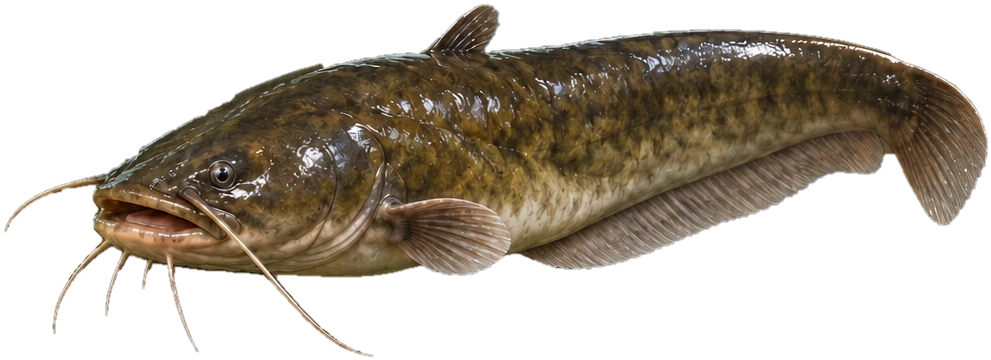
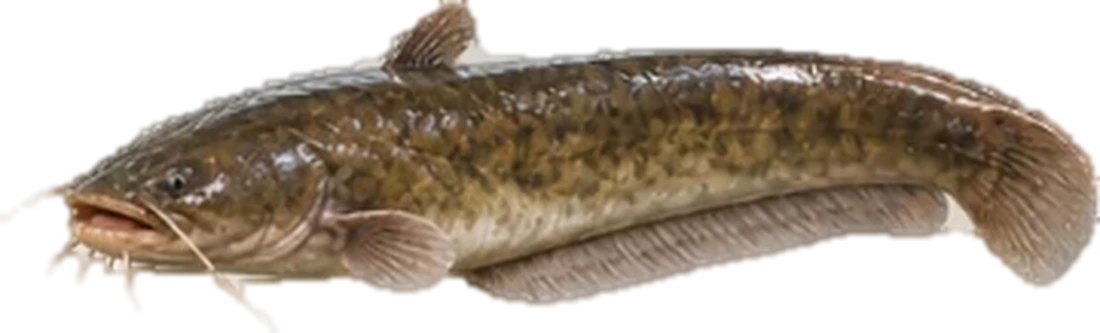
3D catch fish for 15 species from multi-angle photos: skeleton flop, scale bumps, wet gloss by part
- New side images for 강준치·황어·풀치·농어·양태·감성돔·대삼치·고등어·전갱이·메기·도다리·광어·대방어·부시리·알방어 (clean alpha)
- assets/fish/loft.json: body half-width per fish measured from the rear/top views (flatfish thin)
- Loft mesh follows the body run per column (curved hairtail), skinned to a 9-bone spine
- Flop: body C-curl first, tail whips a beat (0.16s) later with decaying strong flaps, fins spring recoil
- Scale micro-bumps: normal map from the photo's high-frequency detail; roughness map by part
  (belly/head glossy, back medium, fins/tail matte) also used for wet clearcoat; silver fish more metallic + iridescent

Claude-Session: https://claude.ai/code/session_01GWBXwWL4XUyvrXfQisFW1N

diff --git a/js/scene3d.js b/js/scene3d.js
@@ -218,6 +218,8 @@ export class World {
     this.buildAmbient();
     this.buildFishingGear();
     this.buildViewModel();
+    // 입체 물고기 두께 자료
+    fetch(new URL('../assets/fish/loft.json', import.meta.url)).then((r) => r.json()).then((d) => { this.loftData = d; }).catch(() => {});
     this.buildBoils();
     this.buildSpray();
     scene.add(this.camera);
@@ -2967,6 +2969,9 @@ export class World {
   }
   // ── 잡은 물고기를 1인칭으로 크게: 줄에 매달려 흔들리고 팔딱이며 물방울이 떨어진다 ──
   showTrophy(fish, url) {
+    // 여러 각도 사진으로 만든 입체 물고기가 있으면 그것으로
+    const key = String(url).split('/').pop().replace(/\.webp.*$/, '');
+    if (this.loftData && this.loftData[key]) return this.showTrophyLoft(fish, url, this.loftData[key], key);
     this.clearTrophy();
     const g = new THREE.Group();
     g.userData = { born: performance.now(), size: fish.size || 40, ready: false };
@@ -3019,33 +3024,62 @@ export class World {
     });
   }
 
-  // 옆모습 사진으로 입체 물고기를 만든다 (사진의 윤곽 → 단면 타원, 앞모습에서 잰 두께)
-  // 머리 x=0 → 꼬리 x=L, 등 +y, 옆면 +z. 꼬리 쪽으로 갈수록 크게 휘는 펄떡임은 셰이더에서.
-  makeLoftFish(img, L, { width = 0.128 } = {}) {
+  // 옆모습 사진으로 입체 물고기를 만든다
+  // - 사진 윤곽(세로 줄마다 몸의 위·아래) → 단면 타원, 두께 hw(길이 대비 반폭)
+  // - 머리 x=0 → 꼬리 x=L, 등 +y, 옆면 +z
+  // - 뼈대 NB개를 머리→꼬리로 이어 스키닝 (몸통·꼬리가 따로 꺾인다), 지느러미 가중치 finW
+  makeLoftFish(img, L, { hw = 0.08, flat = false } = {}, NB = 9) {
     const W = img.width, H = img.height;
     const cv = document.createElement('canvas');
     cv.width = W; cv.height = H;
     const cx = cv.getContext('2d', { willReadFrequently: true });
     cx.drawImage(img, 0, 0);
     const A = cx.getImageData(0, 0, W, H).data;
-    const N = 90, Mr = 32;
+    const N = 96, Mr = 32;
     const Lh = (L * H) / W;
-    // 앞모습 기준 두께: 주둥이에서 커지고 몸통 가운데 최대, 꼬리자루에서 가늘고 꼬리지느러미는 얇게
-    const prof = (u) => (u < 0.04 ? 0.25 + u * 8 : u < 0.28 ? 0.57 + (u - 0.04) * 1.8 : u < 0.52 ? 1 : u < 0.8 ? 1 - (u - 0.52) * 2.6 : Math.max(0.05, 0.27 - (u - 0.8) * 1.1));
-    const pos = [], uv = [], idx = [];
-    let last = { top: H / 2, bot: H / 2 };
+    const prof = flat
+      ? (u) => (u < 0.05 ? 0.4 + u * 10 : u < 0.8 ? 1 - Math.max(0, u - 0.6) * 1.5 : Math.max(0.25, 0.7 - (u - 0.8) * 2.2))
+      : (u) => (u < 0.04 ? 0.25 + u * 8 : u < 0.28 ? 0.57 + (u - 0.04) * 1.8 : u < 0.52 ? 1 : u < 0.8 ? 1 - (u - 0.52) * 2.6 : Math.max(0.05, 0.27 - (u - 0.8) * 1.1));
+    const ss = (e0, e1, x) => { const k = Math.min(1, Math.max(0, (x - e0) / (e1 - e0))); return k * k * (3 - 2 * k); };
+    const pos = [], uv = [], idx = [], fin = [], sI = [], sW = [];
+    const cols = []; // 세로 줄마다 몸 위·아래 (광택 지도용)
+    let prevC = null, last = { top: H / 2, bot: H / 2 };
     for (let i = 0; i <= N; i++) {
       const u = i / N, px = Math.min(W - 1, Math.round(u * (W - 1)));
-      let top = -1, bot = -1;
-      for (let y = 0; y < H; y++) if (A[(y * W + px) * 4 + 3] > 120) { if (top < 0) top = y; bot = y; }
-      if (top < 0) { top = last.top; bot = last.bot; } else last = { top, bot };
+      // 이 줄의 불투명 구간들 → 앞 줄 중심에 가장 가까운 구간 (휘어진 풀치 꼬리도 몸을 따라간다)
+      const runs = [];
+      let r0 = -1;
+      for (let y = 0; y <= H; y++) {
+        const on = y < H && A[(y * W + px) * 4 + 3] > 120;
+        if (on && r0 < 0) r0 = y;
+        if (!on && r0 >= 0) { runs.push([r0, y - 1]); r0 = -1; }
+      }
+      let pick = null;
+      if (runs.length) {
+        if (prevC == null) pick = runs.reduce((m, r) => (r[1] - r[0] > m[1] - m[0] ? r : m));
+        else {
+          // 가까운 구간들을 하나로 (지느러미 틈) 묶은 뒤 고른다
+          const merged = [];
+          for (const r of runs) { const m = merged[merged.length - 1]; if (m && r[0] - m[1] < H * 0.08) m[1] = r[1]; else merged.push([...r]); }
+          pick = merged.reduce((m, r) => (Math.abs((r[0] + r[1]) / 2 - prevC) < Math.abs((m[0] + m[1]) / 2 - prevC) ? r : m));
+        }
+      }
+      const top = pick ? pick[0] : last.top, bot = pick ? pick[1] : last.bot;
+      if (pick) last = { top, bot };
+      prevC = (top + bot) / 2;
+      cols.push([top, bot]);
       const c = (top + bot) / 2, a = Math.max(1, (bot - top) / 2 + 1.5);
-      const b = width * L * prof(u);
+      const b = hw * L * prof(u);
+      const sb = u * (NB - 1), i0 = Math.min(NB - 2, Math.floor(sb)), wb = ss(0, 1, sb - i0);
       for (let j = 0; j <= Mr; j++) {
         const th = (j / Mr) * Math.PI * 2;
         const ypx = c - a * Math.cos(th);
-        pos.push(u * L, (0.5 - ypx / H) * Lh, b * Math.sin(th) * (1 - 0.35 * Math.pow(Math.abs(Math.cos(th)), 6)));
+        const ac = Math.abs(Math.cos(th));
+        pos.push(u * L, (0.5 - ypx / H) * Lh, b * Math.sin(th) * (1 - 0.35 * Math.pow(ac, 6)));
         uv.push(u, 1 - ypx / H);
+        fin.push(Math.max(ss(0.8, 1.0, ac) * 0.85, ss(0.84, 0.97, u)));
+        sI.push(i0, i0 + 1, 0, 0);
+        sW.push(1 - wb, wb, 0, 0);
       }
     }
     for (let i = 0; i < N; i++) for (let j = 0; j < Mr; j++) {
@@ -3055,13 +3089,54 @@ export class World {
     const geo = new THREE.BufferGeometry();
     geo.setAttribute('position', new THREE.Float32BufferAttribute(pos, 3));
     geo.setAttribute('uv', new THREE.Float32BufferAttribute(uv, 2));
+    geo.setAttribute('finW', new THREE.Float32BufferAttribute(fin, 1));
+    geo.setAttribute('skinIndex', new THREE.Uint16BufferAttribute(sI, 4));
+    geo.setAttribute('skinWeight', new THREE.Float32BufferAttribute(sW, 4));
     geo.setIndex(idx);
     geo.computeVertexNormals();
-    return geo;
+    return { geo, cv, A, W, H, cols, N };
   }
 
-  // 황금쏘가리: 입체 몸통 + 펄떡이는 꼬리 + 젖은 금빛 광택
-  showTrophyLoft(fish, url) {
+  // 비늘 요철(노멀맵)과 부위별 광택(거칠기 지도: 배·머리는 매끈, 등은 중간, 지느러미는 덜 반짝)
+  makeFishMaps(L0) {
+    const { cv, A, W, H, cols, N } = L0;
+    const ctx = cv.getContext('2d', { willReadFrequently: true });
+    // 밝기의 고주파 성분 = 비늘 결
+    const blur = document.createElement('canvas');
+    blur.width = W; blur.height = H;
+    const bx = blur.getContext('2d', { willReadFrequently: true });
+    bx.filter = 'blur(3px)';
+    bx.drawImage(cv, 0, 0);
+    const B = bx.getImageData(0, 0, W, H).data;
+    const lum = (D, i) => D[i] * 0.299 + D[i + 1] * 0.587 + D[i + 2] * 0.114;
+    const h = new Float32Array(W * H);
+    for (let i = 0; i < W * H; i++) h[i] = A[i * 4 + 3] > 40 ? (lum(A, i * 4) - lum(B, i * 4)) / 255 : 0;
+    const nImg = ctx.createImageData(W, H), rImg = ctx.createImageData(W, H);
+    const nD = nImg.data, rD = rImg.data;
+    const S = 3.2;
+    for (let y = 0; y < H; y++) for (let x = 0; x < W; x++) {
+      const i = y * W + x, o = i * 4;
+      const hx = (h[y * W + Math.min(W - 1, x + 1)] - h[y * W + Math.max(0, x - 1)]) * S;
+      const hy = (h[Math.min(H - 1, y + 1) * W + x] - h[Math.max(0, y - 1) * W + x]) * S;
+      const l = Math.hypot(hx, hy, 1);
+      nD[o] = (-hx / l * 0.5 + 0.5) * 255; nD[o + 1] = (hy / l * 0.5 + 0.5) * 255; nD[o + 2] = (1 / l * 0.5 + 0.5) * 255; nD[o + 3] = 255;
+      const u = x / (W - 1);
+      const [top, bot] = cols[Math.min(N, Math.round(u * N))];
+      const rel = bot > top ? (y - top) / (bot - top) : 0.5;
+      let r;
+      if (u > 0.86 || rel < 0.1 || rel > 0.92) r = 0.55; // 지느러미·꼬리: 얇은 막, 덜 반짝
+      else if (rel > 0.6) r = 0.09; // 배: 가장 매끈하게 젖은 광택
+      else if (u < 0.22) r = 0.13; // 머리·아가미 덮개
+      else r = 0.22 - Math.min(0.06, rel * 0.1); // 등·옆구리
+      r += (1 - lum(A, o) / 255) * 0.07; // 짙은 무늬는 조금 더 거칠게
+      rD[o] = rD[o + 1] = rD[o + 2] = Math.min(255, r * 255); rD[o + 3] = 255;
+    }
+    const mk = (img) => { const c = document.createElement('canvas'); c.width = W; c.height = H; c.getContext('2d').putImageData(img, 0, 0); const t = new THREE.CanvasTexture(c); t.anisotropy = 8; return t; };
+    return { normal: mk(nImg), rough: mk(rImg) };
+  }
+
+  // 사진으로 만든 입체 물고기: 몸이 먼저 C자로 꺾이고, 꼬리가 한 박자 늦게 세게 튀고, 지느러미는 짧게 반동
+  showTrophyLoft(fish, url, opt = {}, key = '') {
     this.clearTrophy();
     const g = new THREE.Group();
     g.userData = { born: performance.now(), size: fish.size || 40, ready: false };
@@ -3076,39 +3151,48 @@ export class World {
       tex.anisotropy = 8;
       const vh = 2 * 1.3 * Math.tan(THREE.MathUtils.degToRad((this.portrait ? 92 : 78) / 2));
       const L = vh * (0.62 + Math.min(0.2, (fish.size || 40) / 450));
-      const geo = this.makeLoftFish(tex.image, L);
-      const uni = { uT: { value: 0 }, uA: { value: 0 }, uC: { value: 0 } };
+      const NB = 9;
+      const L0 = this.makeLoftFish(tex.image, L, opt, NB);
+      const maps = this.makeFishMaps(L0);
+      const silver = /skygazer|dace|hairtail|seabass|mackerel|yellowtail|amberjack/.test(key);
+      const golden = key === 'golden_mandarin';
+      const uni = { uFin: { value: 0 } };
       const mat = new THREE.MeshPhysicalMaterial({
         map: tex, alphaTest: 0.5, side: THREE.DoubleSide,
-        roughness: 0.3, metalness: 0.32, clearcoat: 1, clearcoatRoughness: 0.07,
-        sheen: 0.8, sheenRoughness: 0.35, sheenColor: new THREE.Color('#ffc84a'),
-        iridescence: 0.35, iridescenceIOR: 1.6, iridescenceThicknessRange: [180, 520],
-        emissive: new THREE.Color('#fff2cc'), emissiveMap: tex, emissiveIntensity: 0.16, envMapIntensity: 1.6,
+        normalMap: maps.normal, normalScale: new THREE.Vector2(0.9, 0.9),
+        roughnessMap: maps.rough, roughness: 1,
+        metalness: silver ? 0.48 : golden ? 0.32 : 0.16,
+        clearcoat: 1, clearcoatRoughnessMap: maps.rough, clearcoatRoughness: 0.5,
+        iridescence: silver ? 0.55 : 0.2, iridescenceIOR: 1.6, iridescenceThicknessRange: [180, 560],
+        sheen: golden ? 0.8 : 0.25, sheenRoughness: 0.35, sheenColor: new THREE.Color(golden ? '#ffc84a' : '#e8f0ff'),
+        emissive: new THREE.Color('#ffffff'), emissiveMap: tex, emissiveIntensity: silver ? 0.1 : 0.14, envMapIntensity: silver ? 1.9 : 1.4,
       });
-      // 펄떡임: 머리는 고정, 꼬리로 갈수록 크게 (물결 + 몸을 C자로 꺾기). 법선도 같이 돌려 광택이 따라 움직이게.
-      const bend = `
-        float fk = clamp(position.x / ${L.toFixed(4)}, 0.0, 1.0);
-        float fw = pow(fk, 1.6);
-        float fz = uA * sin(uT - fk * 5.0) * fw * ${(L * 0.2).toFixed(4)} + uC * fk * fk * ${(L * 0.42).toFixed(4)};
-        float fd = (uA * (1.6 * pow(max(fk, 1e-3), 0.6) * sin(uT - fk * 5.0) - 5.0 * fw * cos(uT - fk * 5.0)) * ${(L * 0.2).toFixed(4)} + uC * 2.0 * fk * ${(L * 0.42).toFixed(4)}) / ${L.toFixed(4)};
-        float fa = atan(fd);`;
+      const finAmp = (L * 0.06).toFixed(4);
       mat.onBeforeCompile = (sh) => {
         Object.assign(sh.uniforms, uni);
-        sh.vertexShader = sh.vertexShader.replace('#include <common>', '#include <common>\nuniform float uT, uA, uC;')
-          .replace('#include <beginnormal_vertex>', `#include <beginnormal_vertex>
-            ${bend}
-            objectNormal = vec3(objectNormal.x * cos(fa) - objectNormal.z * sin(fa), objectNormal.y, objectNormal.x * sin(fa) + objectNormal.z * cos(fa));`)
+        sh.vertexShader = sh.vertexShader.replace('#include <common>', '#include <common>\nuniform float uFin;\nattribute float finW;')
           .replace('#include <begin_vertex>', `#include <begin_vertex>
-            transformed.z += fz;
-            transformed.x -= fz * fd * 0.5;`);
+            transformed.z += uFin * finW * ${finAmp}; // 지느러미 짧은 반동`);
       };
-      const fishMesh = new THREE.Mesh(geo, mat);
+      // 뼈대: 머리 → 꼬리
+      const bones = [];
+      for (let i = 0; i < NB; i++) {
+        const b = new THREE.Bone();
+        b.position.x = i === 0 ? 0 : L / (NB - 1);
+        if (i) bones[i - 1].add(b);
+        bones.push(b);
+      }
+      const fishMesh = new THREE.SkinnedMesh(L0.geo, mat);
+      fishMesh.add(bones[0]);
+      fishMesh.frustumCulled = false;
+      fishMesh.updateMatrixWorld(true);
+      fishMesh.bind(new THREE.Skeleton(bones));
       fishMesh.rotation.z = -Math.PI / 2; // 머리가 위로 (입이 바늘)
       fishMesh.renderOrder = 30;
       fishMesh.position.y = 0.02;
       g.add(fishMesh);
-      // 비늘에 반짝이는 빛 (펄떡일 때 하이라이트가 미끄러진다)
-      const glint = new THREE.PointLight('#fff1c8', 2.2, 2.5, 1.5);
+      // 젖은 비늘의 반짝임 (몸이 꺾일 때 하이라이트가 미끄러진다)
+      const glint = new THREE.PointLight('#fff4dc', 2.4, 2.6, 1.5);
       glint.position.set(0.35, -L * 0.3, 0.6);
       g.add(glint);
       const line = new THREE.Mesh(new THREE.CylinderGeometry(0.0016, 0.0016, 3, 4), new THREE.MeshBasicMaterial({ color: '#d9f26a' }));
@@ -3122,7 +3206,7 @@ export class World {
         g.add(d);
         drops.push(d);
       }
-      Object.assign(g.userData, { fishMesh, uni, L, drops, glint, loft: true, ready: true, top: vh * 0.42 });
+      Object.assign(g.userData, { fishMesh, uni, L, drops, glint, bones, loft: true, flat: !!opt.flat, ready: true, top: vh * 0.42, finX: 0, finV: 0 });
     });
   }
 
@@ -3179,20 +3263,41 @@ export class World {
     // 팔딱: 1초에 한두 번 꼬리를 세게 친다
     const flopPh = (t * 1.4) % 1;
     const flop = flopPh < 0.35 ? Math.sin((flopPh / 0.35) * Math.PI) : 0;
-    u.uni.uT.value = t * 16;
-    u.uni.uA.value = (0.25 + flop * 1.1) * (0.5 + calm * 0.5);
-    u.fishMesh.position.x = flop * 0.03 * Math.sin(t * 20);
     if (u.loft) {
-      // 가끔 몸을 C자로 확 꺾었다 펴는 큰 펄떡임 (좌우 번갈아)
-      if (!u.nextCurl || age > u.nextCurl) { u.curlT = age; u.curlDir = -(u.curlDir || 1); u.nextCurl = age + 0.9 + Math.random() * 1.4 * (1.5 - calm); }
-      const ck = age - (u.curlT || -9);
-      const curl = ck < 0.45 ? Math.sin((ck / 0.45) * Math.PI) * Math.exp(-ck * 1.5) : 0;
-      u.uni.uC.value = curl * u.curlDir * (0.55 + calm * 0.45);
-      u.uni.uA.value *= 1.15;
-      u.uni.uT.value = t * (12 + curl * 10);
-      g.rotation.y += curl * u.curlDir * 0.35; // 꺾일 때 몸이 돌아 옆구리 광택이 번쩍
+      // ── 뼈대 펄떡임 ──
+      // ① 몸통이 먼저 C자로 확 꺾인다 → ② 꼬리가 한 박자(0.16초) 늦게 세게 퍼덕퍼덕 → ③ 지느러미 짧은 반동
+      if (!u.nextCurl || age > u.nextCurl) {
+        u.curlT = age; u.curlDir = -(u.curlDir || 1);
+        u.nextCurl = age + 1.0 + Math.random() * 1.3 * (1.6 - calm);
+        u.finV += 9 * u.curlDir;
+      }
+      const tau = age - (u.curlT ?? -9);
+      const env = tau < 0 ? 0 : tau < 0.1 ? Math.sin((tau / 0.1) * Math.PI / 2) : Math.exp(-(tau - 0.1) * 4.2);
+      const power = (0.55 + calm * 0.45) * (u.flat ? 0.45 : 1); // 넙치류는 납작한 몸을 화면 쪽으로 접으니 약하게
+      const curl = u.curlDir * 0.3 * env * power;
+      const tl = tau - 0.16;
+      const flap = tl > 0 ? -u.curlDir * Math.sin(tl * Math.PI * 2 * 5.2) * Math.exp(-tl * 3.4) * power : 0;
+      if (tl > 0 && Math.sin(tl * Math.PI * 2 * 5.2) * Math.sin((tl - dt) * Math.PI * 2 * 5.2) < 0) u.finV += flap * 5; // 꼬리가 칠 때마다 지느러미 반동
+      const nb = u.bones.length;
+      u.bones.forEach((b, i) => {
+        if (i === 0) { b.rotation.y = 0; return; }
+        const k = i / (nb - 1);
+        const body = k < 0.72 ? curl * (1 - k * 0.4) : curl * 0.3;
+        const tail = k > 0.5 ? flap * 0.62 * Math.pow((k - 0.5) / 0.5, 1.2) : 0;
+        const idle = Math.sin(t * 8.5 - k * 3.2) * 0.05 * k * (0.4 + calm * 0.6);
+        b.rotation.y = body + tail + idle;
+      });
+      // 지느러미: 스프링 (짧게 출렁이고 금방 잦아든다)
+      u.finV += (-140 * u.finX - 9 * u.finV) * dt;
+      u.finX += u.finV * dt;
+      u.uni.uFin.value = THREE.MathUtils.clamp(u.finX, -1.2, 1.2) + Math.sin(t * 11) * 0.08;
+      g.rotation.y += curl * 0.9; // 꺾일 때 몸이 돌아 옆구리 광택이 번쩍
       u.glint.position.x = 0.35 + Math.sin(t * 2.3) * 0.25;
-      u.glint.intensity = 2.2 + curl * 3;
+      u.glint.intensity = 2.4 + Math.abs(curl) * 8;
+    } else {
+      u.uni.uT.value = t * 16;
+      u.uni.uA.value = (0.25 + flop * 1.1) * (0.5 + calm * 0.5);
+      u.fishMesh.position.x = flop * 0.03 * Math.sin(t * 20);
     }
     // 물방울
     if (Math.random() < dt * 22 * (0.4 + calm)) {

diff --git a/js/app.js b/js/app.js
@@ -579,8 +579,7 @@ function showCatch(f) {
   const av = st.avatar;
   const img = DATA.fishImage(f.name);
   audio.land && audio.land();
-  if (img && f.name === '황금쏘가리') scene.showTrophyLoft(f, img); // 황금쏘가리: 입체 몸통 + 펄떡임 + 금빛 광택
-  else if (img) scene.showTrophy(f, img); // 직접 그린 물고기: 1인칭으로 크게
+  if (img) scene.showTrophy(f, img); // 직접 그린 물고기: 1인칭으로 크게 (여러 각도 사진이 있으면 입체로)
   else scene.showTrophy3D(f); // 그림이 없는 어종도 같은 방식
   setTimeout(() => openCatchDialog(f), 3200);
 }
